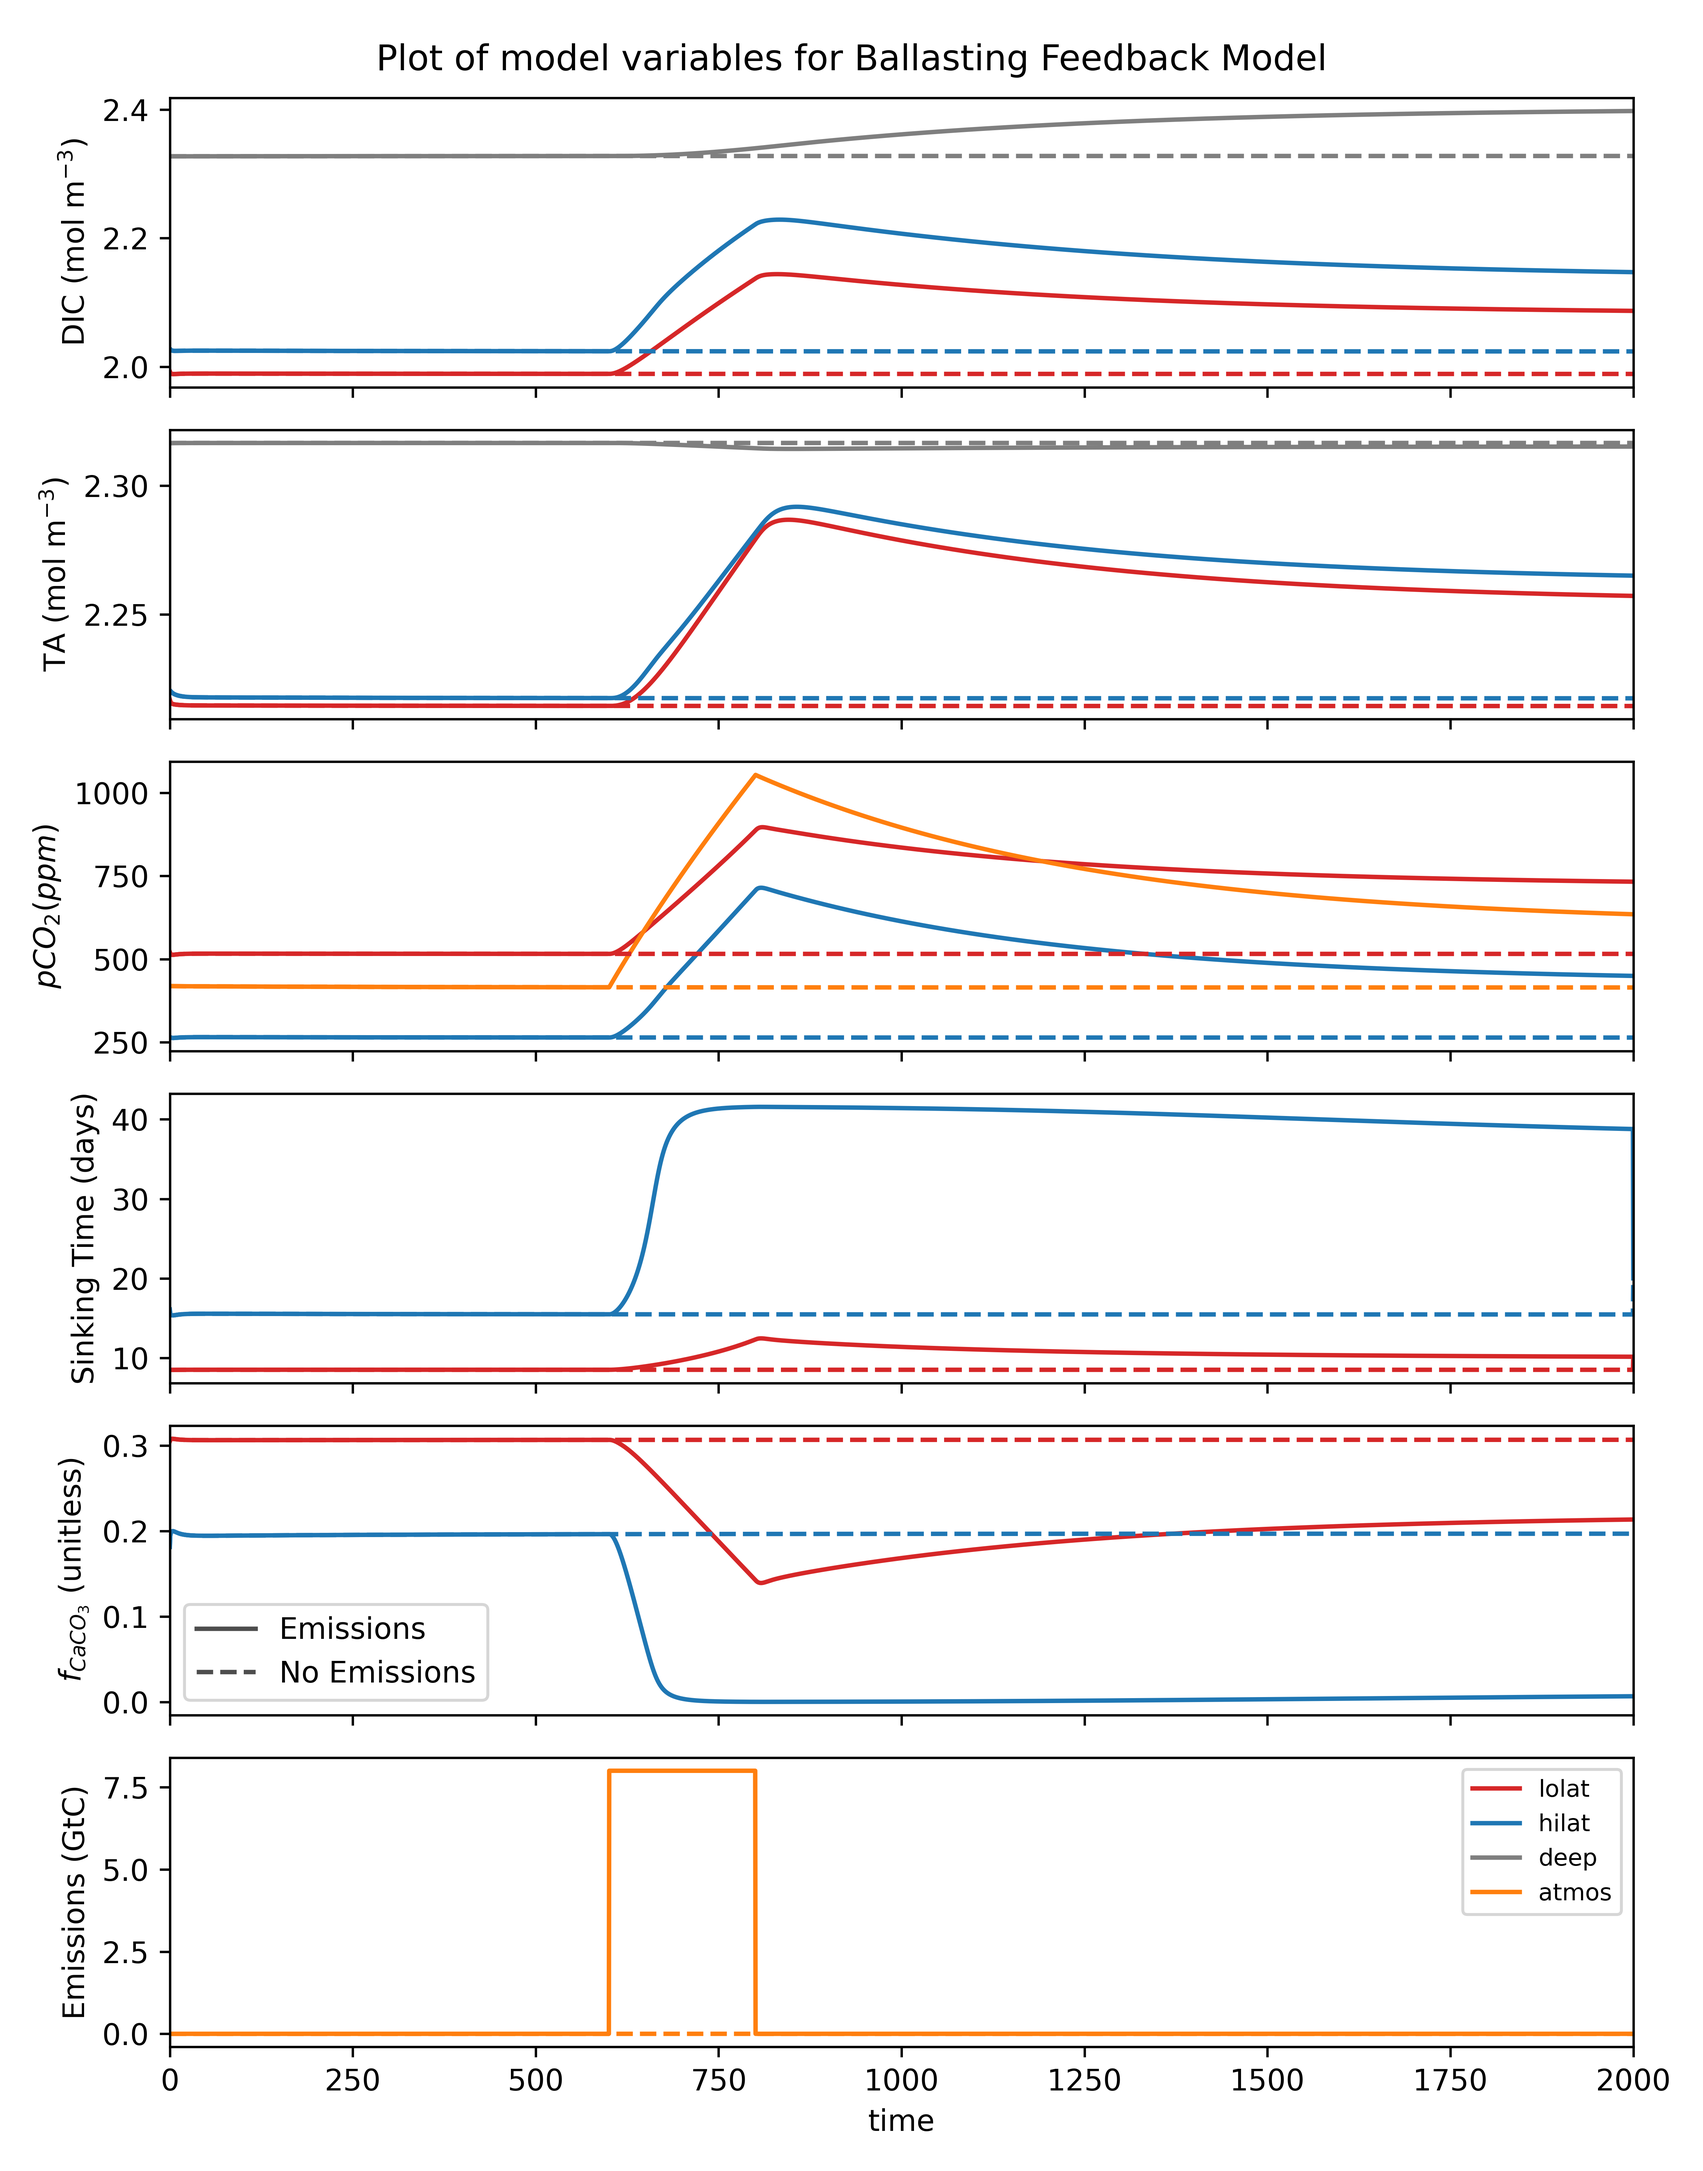
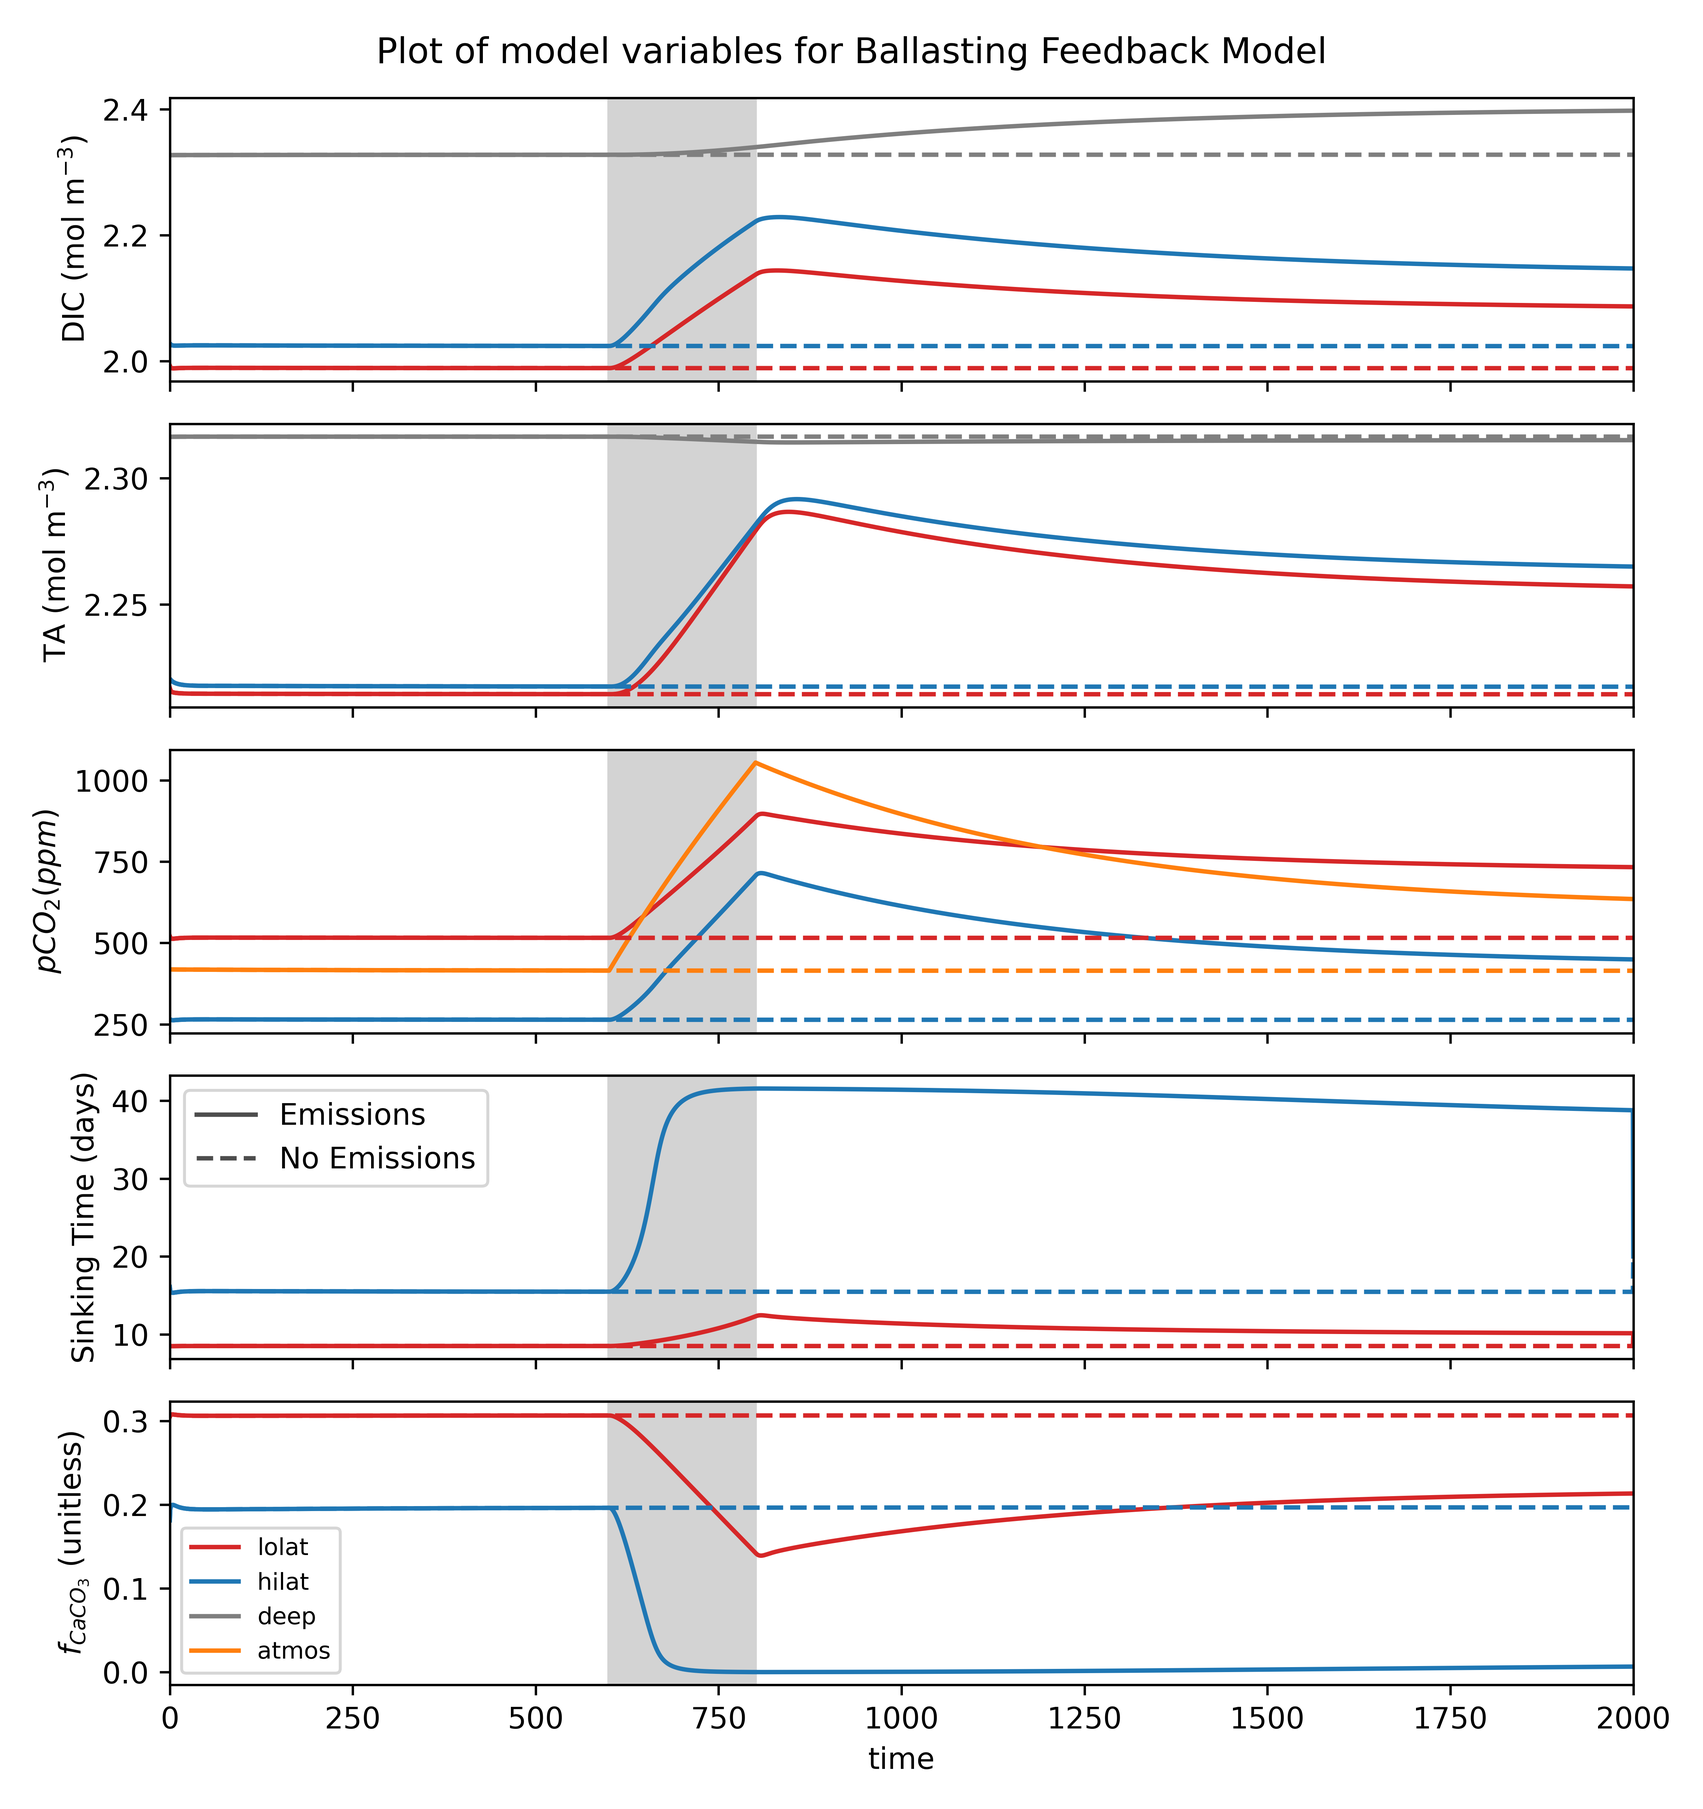
Adjust acidification model (remove accidental v dependence)

diff --git a/LongQuestion3/P6main.py b/LongQuestion3/P6main.py
@@ -116,7 +116,7 @@ def run():
     time = np.arange(0, tmax + dt, dt)  # the time axis for the model
     dicts = add_emissions(copy_dicts(init_dicts), time, 600, 800, 8)
 
-    vars_to_plot = ['DIC', 'TA', 'pCO2', 'particle_sinking_time', 'f_CaCO3', 'GtC_emissions']
+    vars_to_plot = ['DIC', 'TA', 'pCO2', 'particle_sinking_time', 'f_CaCO3']
 
     # this line of code runs the model
     time_array, finished_dicts = original_model(copy_dicts(dicts), 2000, 0.5)
@@ -140,6 +140,11 @@ def run():
     plt.suptitle('Plot of model variables for different models')
     fig.tight_layout()
     add_fancy_labels(axs, vars_to_plot)
+    for ax in axs:
+        maximum = ax.get_ylim()[1]
+        minimum = ax.get_ylim()[0]
+        ax.set_ylim(minimum, maximum)
+        ax.fill_between((600, 800), (minimum, minimum), (maximum, maximum), color='lightgray')
 
     # plot the graphs
     plt.savefig('pics/LongQuestionPlot1.png', dpi=600)
@@ -149,7 +154,8 @@ def run():
     names = ['Ballasting Feedback', 'Acidification', 'Original']
     for i, model in enumerate(models):
 
-        vars_to_plot = ['DIC', 'TA', 'pCO2', 'GtC_emissions'] if names[i] == 'Original' else vars_to_plot
+        vars_to_plot = ['DIC', 'pCO2'] if names[i] == 'Original' else vars_to_plot
+        vars_to_plot = ['DIC', 'TA', 'pCO2', 'f_CaCO3'] if names[i] == 'Acidification' else vars_to_plot
 
         time_array, finished_dicts = model(copy_dicts(dicts), 2000, 0.5)
         final_lolat, final_hilat, final_deep, final_atmos = finished_dicts
@@ -168,6 +174,11 @@ def run():
         plt.suptitle(f'Plot of model variables for {names[i]} Model')
         fig.tight_layout()
         add_fancy_labels(axs, vars_to_plot)
+        for ax in axs:
+            maximum = ax.get_ylim()[1]
+            minimum = ax.get_ylim()[0]
+            ax.set_ylim(minimum, maximum)
+            ax.fill_between((600, 800), (minimum, minimum), (maximum, maximum), color='lightgray')
 
         plt.savefig(f'pics/LongQuestionPlot{names[i].replace(" ", "")}Model.png', dpi=600)
         plt.show()

diff --git a/LongQuestion3/acidification_model.py b/LongQuestion3/acidification_model.py
@@ -115,16 +115,8 @@ def acidification_model(dicts, tmax, dt):
             fluxes[f'dCO2_{boxname}'] = box['V'] / box['tau_CO2'] * (
                         box['CO2'][last] - 1e-3 * atmos['pCO2'][last] * box['K0'][last]) * dt  # mol dt-1
 
-            rho_org = 1100
-            rho_CaCO3 = 2700
-            rho_p = (rho_org + box['f_CaCO3'][last] * 10 / 3 * rho_org) / (
-                        1 + box['f_CaCO3'][last] * 10 / 3 * rho_org / rho_CaCO3)
-            v = particle_velocity * (rho_p - 1000) / (box['rho_particle'] - 1000)
-            box['particle_sinking_time'][i] = box['depth'] / v
-            exponential_factor = np.exp(- box['k_ballast'] * box['particle_sinking_time'][i])
-
             # organic matter production
-            fluxes[f'export_PO4_{boxname}'] = box['PO4'][last] * box['V'] / box['tau_PO4'] * dt * 5 * exponential_factor # mol PO4 dt-1
+            fluxes[f'export_PO4_{boxname}'] = box['PO4'][last] * box['V'] / box['tau_PO4'] * dt # mol PO4 dt-1
 
             ### MODIFIED CODE
             # DIC export by productivity :                                  redfield + calcification
@@ -185,7 +177,7 @@ def acidification_model(dicts, tmax, dt):
             if box['Omega'][i] > Omega_crit:
                 f_remaining = 1
             else:
-                f_remaining = np.exp(k_diss * box['particle_sinking_time'][i] * (Omega_crit - box['Omega'][i]) ** n_diss)
+                f_remaining = np.exp(k_diss * box['particle_sinking_time'][0] * (Omega_crit - box['Omega'][i]) ** n_diss)
             box['f_CaCO3'][i] = calc_slope * box['Omega'][i] * f_remaining
             ###
 

diff --git a/LongQuestion3/fcaco3 efficiency.py b/LongQuestion3/fcaco3 efficiency.py
@@ -5,19 +5,19 @@ rho_org = 1200
 rho_CaCO3 = 2700
 
 lolat = {
-    'name': 'lolat',
+    'name': 'Low Latitude',
     'rho_p':  1568.14,
     'depth': 100.,
     'k_ballast': 0.1609,
-    'ls': 'dotted'
+    'c': 'black'
 }
 
 hilat = {
-    'name': 'hilat',
+    'name': 'High Latitude',
     'rho_p':  1416.27,
     'depth': 200.,
     'k_ballast': 0.0805,
-    'ls': 'solid'
+    'c': 'red'
 }
 
 fCaCO3 = np.linspace(0, 1, 10000)
@@ -29,12 +29,14 @@ for box in [lolat, hilat]:
     CaCO3_export_efficiency = fCaCO3 * organic_export_efficiency
     print(organic_export_efficiency, rho_p)
     plt.plot(fCaCO3, organic_export_efficiency,
-             label=f'{box["name"]} organic', ls=box['ls'], c='red')
+             label=f'{box["name"]} organic', ls='solid', c=box['c'])
     plt.plot(fCaCO3, CaCO3_export_efficiency,
-             label=f'{box["name"]} CaCO3', ls=box['ls'], c='black')
+             label=f'{box["name"]} CaCO3', ls='dotted', c=box['c'])
 plt.legend() # title='Export Efficiency')
-plt.xlabel('f_CaCO3 (unitless)')
-plt.ylabel('Export Efficiency (unitless)')
+plt.xlabel(r'$f_{CaCO_{3}}$')
+plt.ylabel('Export Efficiency')
+# plt.title(r'Plot of export efficiencies against $f_{CaCO_{3}}$')
 plt.xlim(0, 1)
+plt.tight_layout()
 plt.savefig('pics/Efficiency and fCaCO3 plot.png', dpi=600)
 plt.show()

diff --git a/lfcd2OceanTools/lfcd2Tools.py b/lfcd2OceanTools/lfcd2Tools.py
@@ -197,10 +197,14 @@ def add_emissions(dicts, time, start, stop, value):
 def add_fancy_labels(axs, vars_to_plot):
     if 'f_CaCO3' in vars_to_plot:
         axs[vars_to_plot.index('f_CaCO3')].set_ylabel(r'$f_{CaCO_{3}}$ (unitless)')
-    axs[vars_to_plot.index('pCO2')].set_ylabel(r'$pCO_{2} (ppm)$')
-    axs[vars_to_plot.index('DIC')].set_ylabel(r'DIC (mol m$^{-3}$)')
-    axs[vars_to_plot.index('TA')].set_ylabel(r'TA (mol m$^{-3}$)')
+    if 'pCO2' in vars_to_plot:
+        axs[vars_to_plot.index('pCO2')].set_ylabel(r'$pCO_{2} (ppm)$')
+    if 'DIC' in vars_to_plot:
+        axs[vars_to_plot.index('DIC')].set_ylabel(r'DIC (mol m$^{-3}$)')
+    if 'TA' in vars_to_plot:
+        axs[vars_to_plot.index('TA')].set_ylabel(r'TA (mol m$^{-3}$)')
     if 'particle_sinking_time' in vars_to_plot:
         axs[vars_to_plot.index('particle_sinking_time')].set_ylabel(r'Sinking Time (days)')
-    axs[vars_to_plot.index('GtC_emissions')].set_ylabel(r'Emissions (GtC)')
+    if 'GtC_emissions' in vars_to_plot:
+        axs[vars_to_plot.index('GtC_emissions')].set_ylabel(r'Emissions (GtC)')
     return axs
